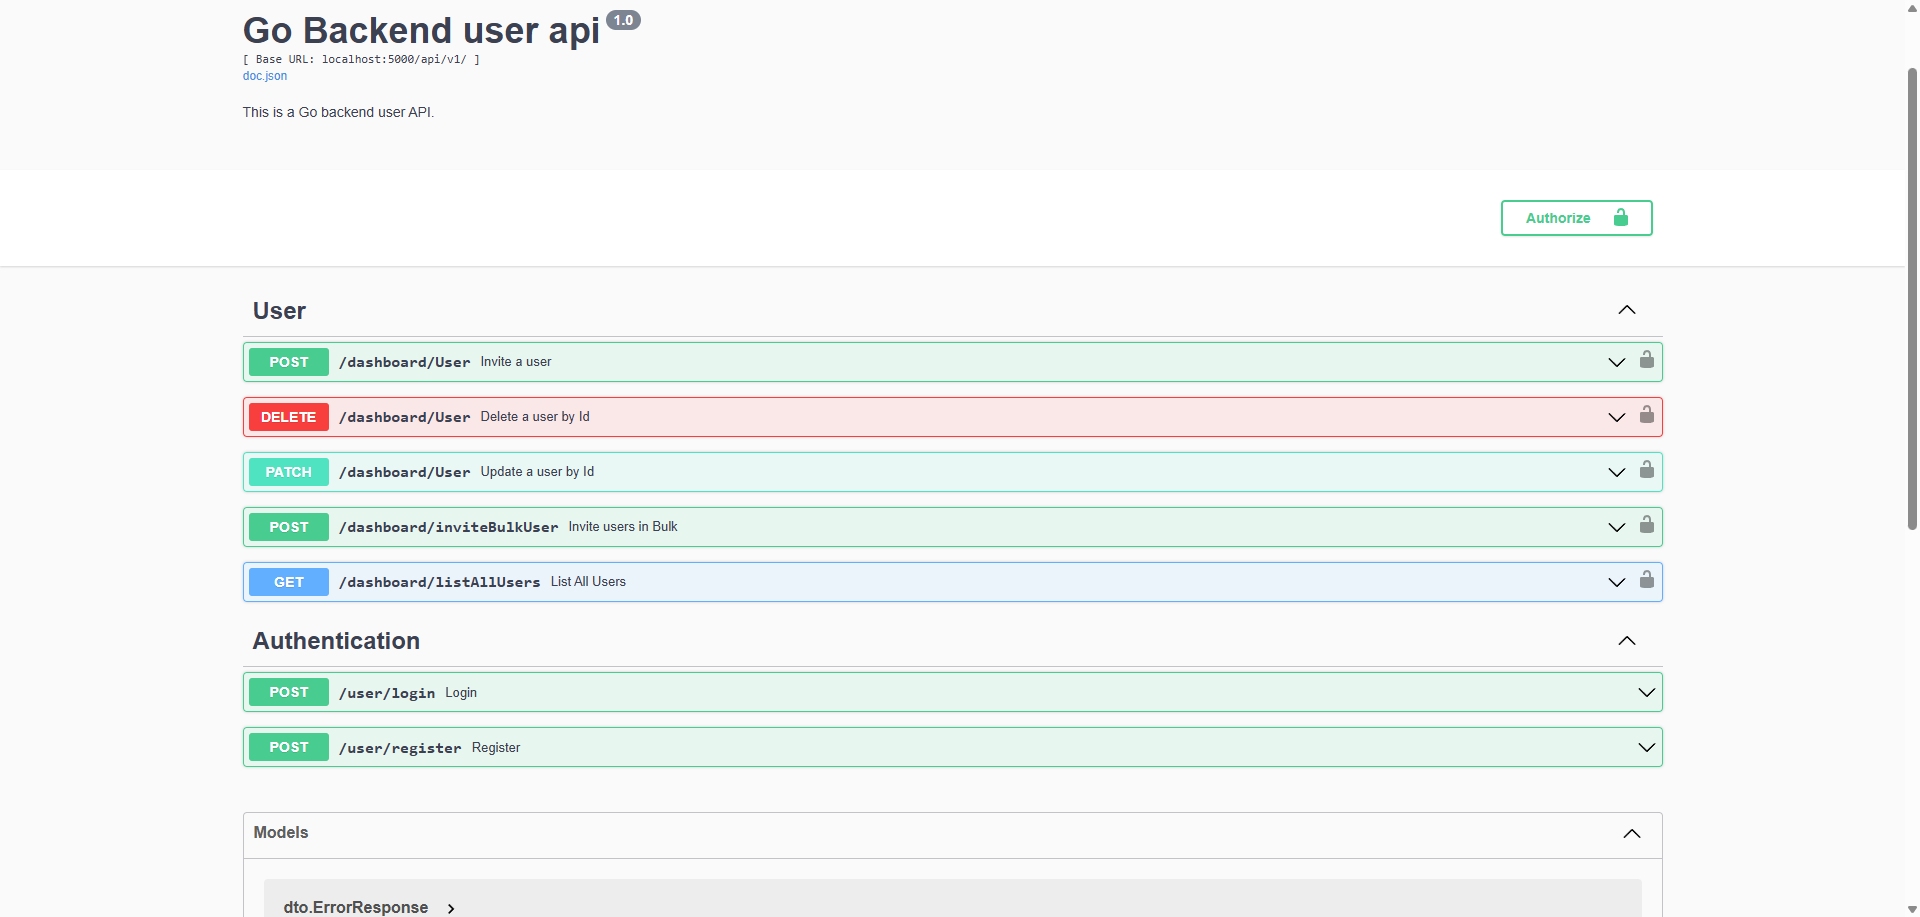
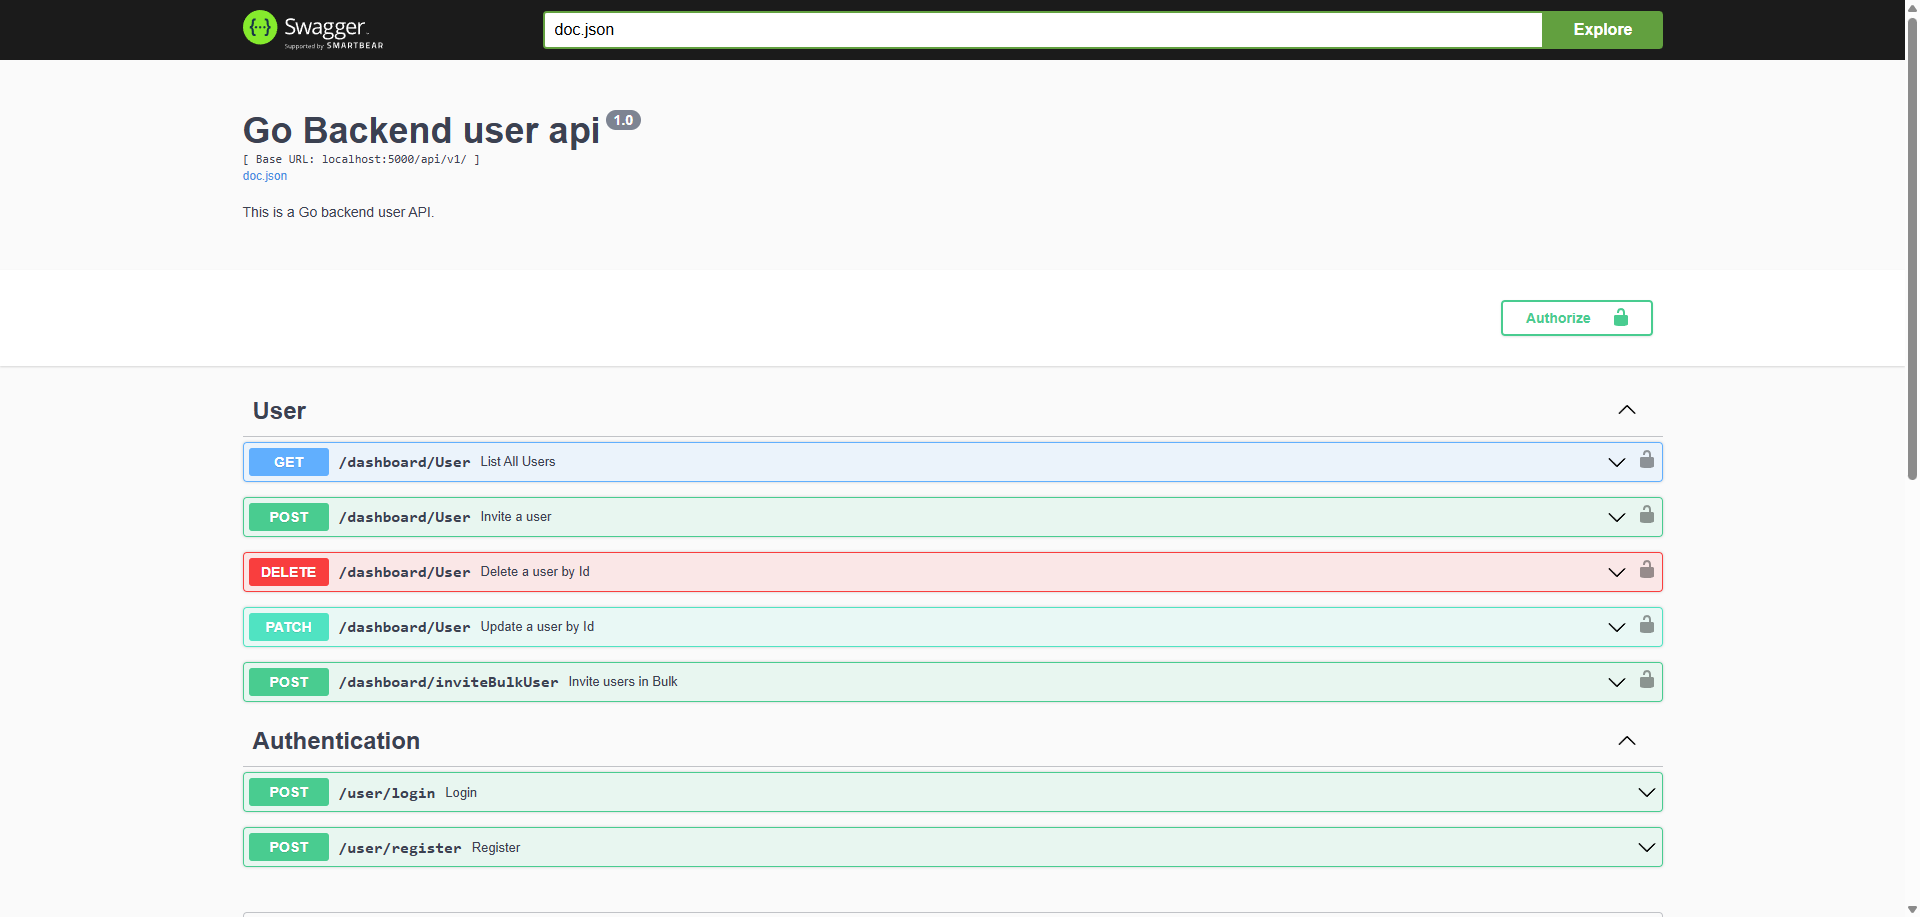
swagger update name change

diff --git a/src/docs/docs.go b/src/docs/docs.go
@@ -16,6 +16,51 @@ const docTemplate = `{
     "basePath": "{{.BasePath}}",
     "paths": {
         "/dashboard/User": {
+            "get": {
+                "security": [
+                    {
+                        "BearerAuth": []
+                    }
+                ],
+                "description": "Get All Users",
+                "produces": [
+                    "application/json"
+                ],
+                "tags": [
+                    "User"
+                ],
+                "summary": "List All Users",
+                "parameters": [
+                    {
+                        "type": "integer",
+                        "description": "Page number",
+                        "name": "page",
+                        "in": "path",
+                        "required": true
+                    },
+                    {
+                        "type": "integer",
+                        "description": "Size of the page",
+                        "name": "pageSize",
+                        "in": "path",
+                        "required": true
+                    }
+                ],
+                "responses": {
+                    "202": {
+                        "description": "List of All Users with roles",
+                        "schema": {
+                            "$ref": "#/definitions/dto.FetchUserRoleWithPaginatedResponse"
+                        }
+                    },
+                    "400": {
+                        "description": "Bad request",
+                        "schema": {
+                            "$ref": "#/definitions/dto.ErrorResponse"
+                        }
+                    }
+                }
+            },
             "post": {
                 "security": [
                     {
@@ -183,53 +228,6 @@ const docTemplate = `{
                         "description": "Generic response with message",
                         "schema": {
                             "$ref": "#/definitions/dto.MessageResponse"
-                        }
-                    },
-                    "400": {
-                        "description": "Bad request",
-                        "schema": {
-                            "$ref": "#/definitions/dto.ErrorResponse"
-                        }
-                    }
-                }
-            }
-        },
-        "/dashboard/listAllUsers": {
-            "get": {
-                "security": [
-                    {
-                        "BearerAuth": []
-                    }
-                ],
-                "description": "Get All Users",
-                "produces": [
-                    "application/json"
-                ],
-                "tags": [
-                    "User"
-                ],
-                "summary": "List All Users",
-                "parameters": [
-                    {
-                        "type": "integer",
-                        "description": "Page number",
-                        "name": "page",
-                        "in": "path",
-                        "required": true
-                    },
-                    {
-                        "type": "integer",
-                        "description": "Size of the page",
-                        "name": "pageSize",
-                        "in": "path",
-                        "required": true
-                    }
-                ],
-                "responses": {
-                    "202": {
-                        "description": "List of All Users with roles",
-                        "schema": {
-                            "$ref": "#/definitions/dto.FetchUserRoleWithPaginatedResponse"
                         }
                     },
                     "400": {

diff --git a/src/api/controllers/dashboardControllers.go b/src/api/controllers/dashboardControllers.go
@@ -30,7 +30,7 @@ func NewDashboardController() *DashboardController {
 //	@Success		202			{object}	dto.FetchUserRoleWithPaginatedResponse	"List of All Users with roles"
 //	@Failure		400			{object}	dto.ErrorResponse						"Bad request"
 //	@Security		BearerAuth
-//	@Router			/dashboard/Users [get]
+//	@Router			/dashboard/User [get]
 func (*DashboardController) ListAllUsers(c *gin.Context) {
 
 	req := &dto.Pagination{}
